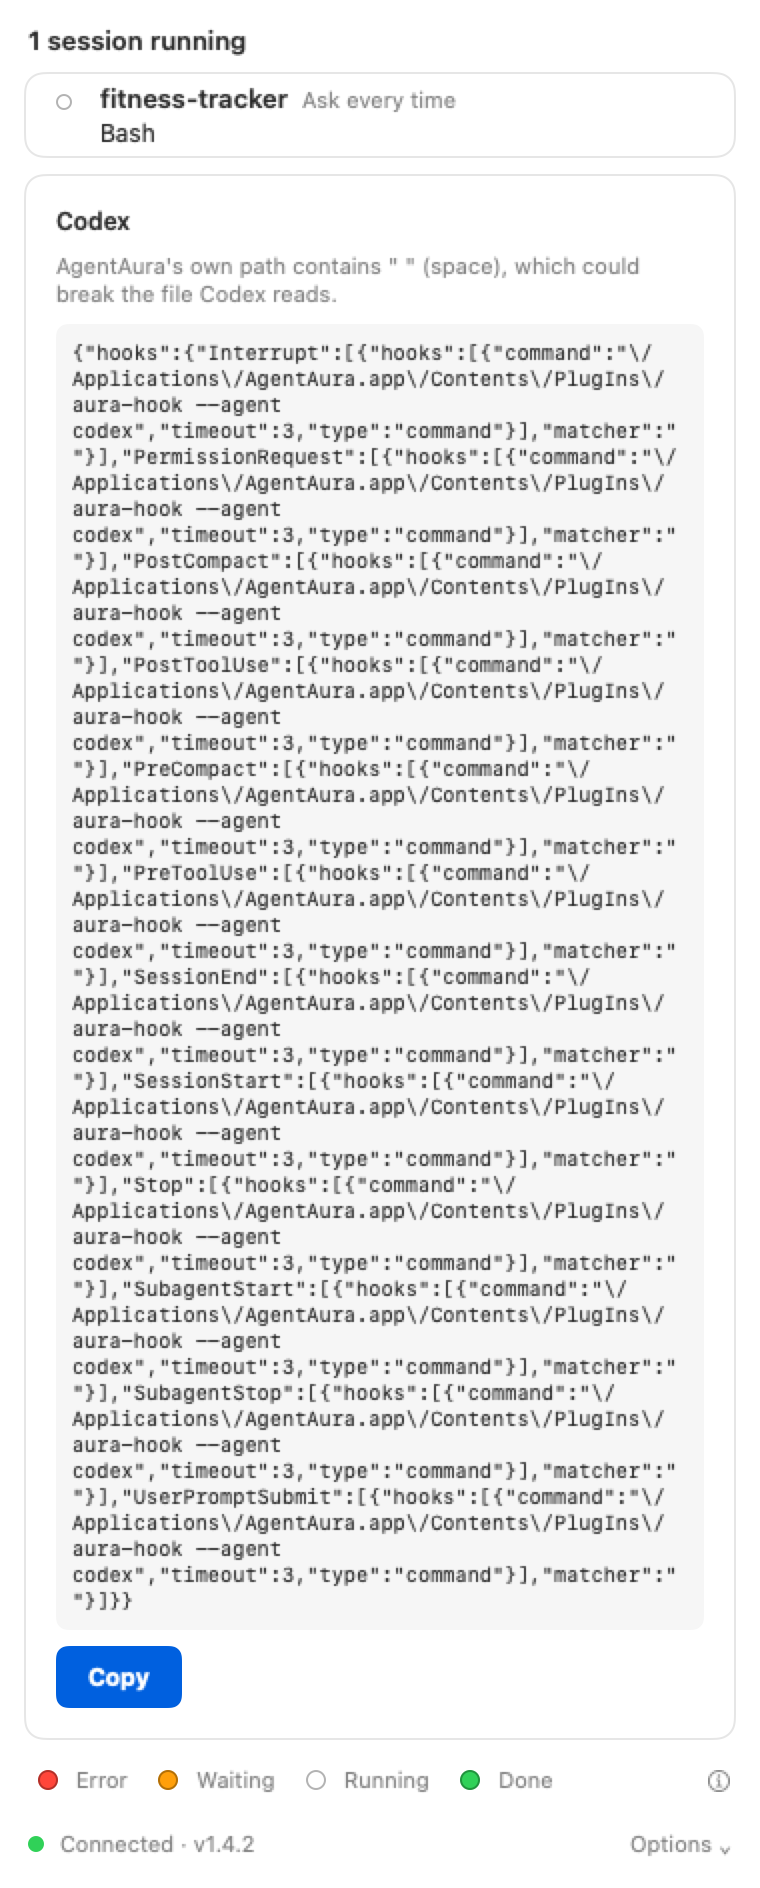
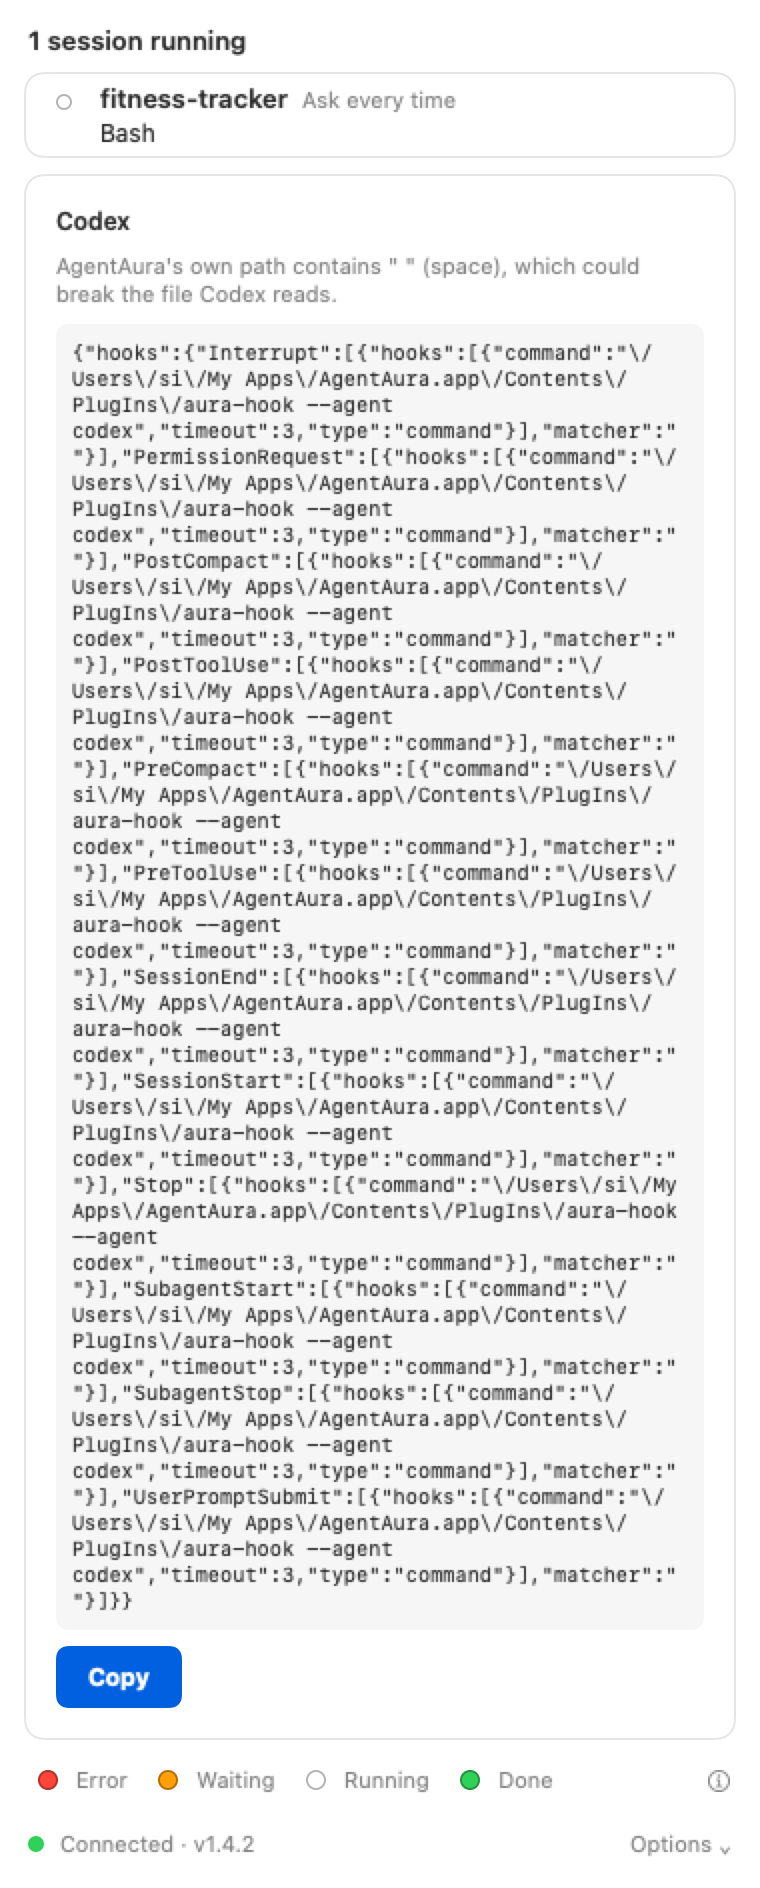
docs(codex): 證據圖補 S1-6／S1-7
S1-7（證據缺口）：新增情境 #12——install=.notConnected（Claude 未接上）＋一列
活著的 Codex session（agent==.codex，working）＋Codex 卡片 .connected。如實
呈現標題／footer chip／CTA 窄條三處目前都只讀 model.install，完全不提正在
跑的 Codex session（persona r1 指出的頭號情境證據缺口）。

S1-6（證據品質）：情境 #07（blockedByBundlePath(.unsupportedCharacter(" "))）
先前宣稱路徑含空白，卻餵不含空白的 realSnippet 當來源——改用真的含空白的
路徑（/Users/si/My Apps/AgentAura.app/...）產生 snippet，圖上看得到那條會
壞的路徑就在 snippet 裡。標注這是 r13 前的修前基準，spec r13 之後這格會
改成不給 snippet，T13 落地後要重渲。

INDEX.md 新增「persona r1 指出的視覺問題對照」段落，交叉引用 S0-1↔#03、
S1-4↔#05/#07（面板高約 944pt、複製鈕約 848pt，只標不修）、S1-6↔#07、
S1-7↔#12。

不改動任何生產碼；swift test 全量 292 個測試維持全綠。

diff --git a/Tests/AgentAuraAppTests/CodexEvidenceRenderer.swift b/Tests/AgentAuraAppTests/CodexEvidenceRenderer.swift
@@ -25,6 +25,13 @@ struct CodexEvidenceRenderer {
     /// 真的產生器輸出，不是手寫字面（同 `CodexSectionViewTests.realSnippet` 的既有理由）。
     static let realSnippet = CodexHooksJSON.snippet(hookBinaryPath: "/Applications/AgentAura.app/Contents/PlugIns/aura-hook")
 
+    /// S1-6（persona r1）：#07 宣告 `.unsupportedCharacter(" ")`，但先前餵的 `realSnippet`
+    /// 來源路徑根本不含空白——圖上的 snippet 因此看不到「那條會壞的路徑」，跟文案兜不起來。
+    /// 這裡改用真的含空白的路徑產生 snippet，讓畫面上的 snippet 內容與宣稱的 rejection 一致。
+    /// **r13 之後這個情境會改成「不給 snippet」**（spec 已改），這條常數與 #07 是 r13 前的
+    /// 修前基準，T13 落地後要重渲（見 `scenarios(now:)` #07 與 `writeIndex` 的附註）。
+    static let realSnippetWithSpace = CodexHooksJSON.snippet(hookBinaryPath: "/Users/someone/My Apps/AgentAura.app/Contents/PlugIns/aura-hook")
+
     func session(_ id: String, _ name: String, _ a: Activity, agent: Agent, updatedAt: Date) -> SessionState {
         SessionState(id: id, projectName: name, permissionMode: "default", effort: nil, model: nil, agent: agent,
                     activity: a, mainActivity: a, subActivity: nil, currentTool: "Bash", subagentTool: nil,
@@ -71,9 +78,10 @@ struct CodexEvidenceRenderer {
                                codex: codex, codexSnippet: codexSnippet, codexPathRejection: codexPathRejection, now: now)
     }
 
-    /// 11 個情境（10 個題項 + 「connectedStalePath 兩種 Rejection 都不給重新接上按鈕」拆兩張，
+    /// 12 個情境（10 個題項 + 「connectedStalePath 兩種 Rejection 都不給重新接上按鈕」拆兩張，
     /// 見 #10／#11：這兩張與 #6／#7 不是同一個 `CodexState`（#6/#7 是 `occupiedByOther`／
-    /// `blockedByBundlePath`，#10/#11 是 `connectedStalePath`），沒有重疊可併）。
+    /// `blockedByBundlePath`，#10/#11 是 `connectedStalePath`），沒有重疊可併，+ #12
+    /// S1-7 補的證據缺口——見該情境的 doc comment）。
     func scenarios(now: Date) -> [Scenario] {
         let claude = session("a", "fitness-tracker", .working, agent: .claude, updatedAt: now)
         let codexRow = session("b", "fitness-tracker", .waiting, agent: .codex, updatedAt: now.addingTimeInterval(-30))
@@ -115,10 +123,13 @@ struct CodexEvidenceRenderer {
                      codexPathRejection: .mustMoveToApplications, language: lang, now: now)
             },
             // 7. P2：blockedByBundlePath(.unsupportedCharacter(" "))——文案指名是空白字元。
+            //    S1-6（persona r1）：snippet 來源路徑真的含空白（/Users/someone/My Apps/...），
+            //    不再是不含空白的 realSnippet——r13 前的修前基準，T13 落地後（改成不給
+            //    snippet）要重渲這張，見 writeIndex 的附註。
             Scenario(name: "07-blocked-unsupported-character",
-                     desc: "P2：blockedByBundlePath(.unsupportedCharacter(\" \"))——文案指名是空白字元＋snippet（同源）＋「複製」按鈕") { lang in
+                     desc: "P2：blockedByBundlePath(.unsupportedCharacter(\" \"))——文案指名是空白字元＋snippet（同源，來源路徑真的含空白：/Users/someone/My Apps/…）＋「複製」按鈕。**r13 前的狀態**（r13 之後這格改成不給 snippet，T13 落地後要重渲）") { lang in
                 panel(sessions: [claude], install: connected,
-                     codex: .blockedByBundlePath(.unsupportedCharacter(" ")), codexSnippet: Self.realSnippet,
+                     codex: .blockedByBundlePath(.unsupportedCharacter(" ")), codexSnippet: Self.realSnippetWithSpace,
                      codexPathRejection: .unsupportedCharacter(" "), language: lang, now: now)
             },
             // 8. 斷開成功 banner（codexDisconnected）＋斷開後卡片回到 notConnected 的提示。
@@ -145,10 +156,22 @@ struct CodexEvidenceRenderer {
                 panel(sessions: [claude], install: connected, codex: .connectedStalePath,
                      codexPathRejection: .unsupportedCharacter(" "), language: lang, now: now)
             },
+            // 12. S1-7（persona r1 指出的證據缺口）：本 change 的頭號情境——Claude 側
+            //     `.notConnected`，同時有一列活著的 Codex session（agent==.codex，working
+            //     態）。標題（`PanelModel.title`）、footer chip（`PanelFooterView`）、CTA
+            //     窄條（`ConnectCTABannerView`）三處都只讀 `model.install`（`healthLabel`／
+            //     `connectCTAText`），完全不看 `model.codex`——這張圖如實呈現「三處都只反映
+            //     Claude」這個現況，不是修過的版本（這裡不改生產碼）。
+            Scenario(name: "12-notConnected-claude-with-live-codex-session",
+                     desc: "S1-7：install=.notConnected（Claude 未接上）＋一列活著的 Codex session（working）＋Codex 卡片 .connected——看標題／footer chip／CTA 窄條三處在這個組合下寫什麼字（persona r1：三處都只反映 Claude，完全沒提到正在跑的 Codex session）") { lang in
+                let liveCodexSession = session("c", "fitness-tracker", .working, agent: .codex, updatedAt: now)
+                return panel(sessions: [liveCodexSession], install: .notConnected, codex: .connected,
+                            language: lang, now: now)
+            },
         ]
     }
 
-    @Test("產出 11 組 Codex 面板情境 × 兩語言（.aqua）＋ INDEX.md")
+    @Test("產出 12 組 Codex 面板情境 × 兩語言（.aqua）＋ INDEX.md")
     func renderCodexEvidence() throws {
         let dir = try Self.outputDirectory()
         try FileManager.default.createDirectory(at: dir, withIntermediateDirectories: true)
@@ -187,6 +210,21 @@ struct CodexEvidenceRenderer {
 
             **只有 `.aqua`（淺色）**：深淺色對比不是這批圖要驗的維度，版面與文案在深淺模式下走同一份 SwiftUI\
             語意色（`.primary`／`.secondary`），需要深色對照時另外要求即可。
+
+            ## persona r1 指出的視覺問題對照（只標，不修）
+
+            - **S0-1** ↔ `03-connected-banner-*`：接上成功 banner 的兩句話要看得到，這張圖的 `sessions` 刻意留空\
+            （`.connected` kind banner 在有活著的 session 時會自動退場，見 #03 的情境註解）——不是遺漏 session，\
+            是唯一能讓兩句話同時留在畫面上的組合。
+            - **S1-4** ↔ `05-occupied-with-snippet-*` ／ `07-blocked-unsupported-character-*`：面板高度約 944pt，\
+            「複製」按鈕落在約 848pt 處（皆為 pt，非這批圖的 px——見上方尺寸單位附註）——snippet 區塊把卡片撐得\
+            很高，複製鈕在很下面才看得到。這裡先標記現況，不在這輪修版面。
+            - **S1-6** ↔ `07-blocked-unsupported-character-*`：已修——snippet 現在由真的含空白的路徑\
+            （`/Users/someone/My Apps/AgentAura.app/Contents/PlugIns/aura-hook`）產生，圖上看得到那條會壞的路徑就在\
+            snippet 裡。**r13 前的修前基準**：spec r13 之後這個情境會改成「不給 snippet」，T13 落地後要重渲這張。
+            - **S1-7** ↔ `12-notConnected-claude-with-live-codex-session-*`：新增。本 change 的頭號情境\
+            （Claude 未接上 ＋ 一列活著的 Codex session）先前完全沒有證據圖——這張如實呈現標題／footer chip／CTA\
+            窄條三處目前都只讀 `model.install`（不看 `model.codex`），完全沒提到正在跑的 Codex session。
 
             | 檔名 | 情境（給 persona 看什麼） |
             |---|---|

diff --git a/docs/evidence/codex/INDEX.md b/docs/evidence/codex/INDEX.md
@@ -8,6 +8,13 @@
 
 **只有 `.aqua`（淺色）**：深淺色對比不是這批圖要驗的維度，版面與文案在深淺模式下走同一份 SwiftUI語意色（`.primary`／`.secondary`），需要深色對照時另外要求即可。
 
+## persona r1 指出的視覺問題對照（只標，不修）
+
+- **S0-1** ↔ `03-connected-banner-*`：接上成功 banner 的兩句話要看得到，這張圖的 `sessions` 刻意留空（`.connected` kind banner 在有活著的 session 時會自動退場，見 #03 的情境註解）——不是遺漏 session，是唯一能讓兩句話同時留在畫面上的組合。
+- **S1-4** ↔ `05-occupied-with-snippet-*` ／ `07-blocked-unsupported-character-*`：面板高度約 944pt，「複製」按鈕落在約 848pt 處（皆為 pt，非這批圖的 px——見上方尺寸單位附註）——snippet 區塊把卡片撐得很高，複製鈕在很下面才看得到。這裡先標記現況，不在這輪修版面。
+- **S1-6** ↔ `07-blocked-unsupported-character-*`：已修——snippet 現在由真的含空白的路徑（`/Users/someone/My Apps/AgentAura.app/Contents/PlugIns/aura-hook`）產生，圖上看得到那條會壞的路徑就在snippet 裡。**r13 前的修前基準**：spec r13 之後這個情境會改成「不給 snippet」，T13 落地後要重渲這張。
+- **S1-7** ↔ `12-notConnected-claude-with-live-codex-session-*`：新增。本 change 的頭號情境（Claude 未接上 ＋ 一列活著的 Codex session）先前完全沒有證據圖——這張如實呈現標題／footer chip／CTA窄條三處目前都只讀 `model.install`（不看 `model.codex`），完全沒提到正在跑的 Codex session。
+
 | 檔名 | 情境（給 persona 看什麼） |
 |---|---|
 | `01-unavailable-en.png` | P1／D-j：~/.codex 不存在——完整面板（含活著的 Claude session）完全看不到任何 Codex 字樣 |
@@ -22,8 +29,8 @@
 | `05-occupied-with-snippet-zh.png` | P2：occupiedByOther，codexSnippet!=nil——說明＋可複製 snippet（與 CodexHooksJSON.snippet 同源）＋「複製」按鈕 |
 | `06-occupied-must-move-no-snippet-en.png` | P2／R-10：occupiedByOther，pathRejection==.mustMoveToApplications——不給 snippet／複製鈕，改說先把 App 移到「應用程式」 |
 | `06-occupied-must-move-no-snippet-zh.png` | P2／R-10：occupiedByOther，pathRejection==.mustMoveToApplications——不給 snippet／複製鈕，改說先把 App 移到「應用程式」 |
-| `07-blocked-unsupported-character-en.png` | P2：blockedByBundlePath(.unsupportedCharacter(" "))——文案指名是空白字元＋snippet（同源）＋「複製」按鈕 |
-| `07-blocked-unsupported-character-zh.png` | P2：blockedByBundlePath(.unsupportedCharacter(" "))——文案指名是空白字元＋snippet（同源）＋「複製」按鈕 |
+| `07-blocked-unsupported-character-en.png` | P2：blockedByBundlePath(.unsupportedCharacter(" "))——文案指名是空白字元＋snippet（同源，來源路徑真的含空白：/Users/someone/My Apps/…）＋「複製」按鈕。**r13 前的狀態**（r13 之後這格改成不給 snippet，T13 落地後要重渲） |
+| `07-blocked-unsupported-character-zh.png` | P2：blockedByBundlePath(.unsupportedCharacter(" "))——文案指名是空白字元＋snippet（同源，來源路徑真的含空白：/Users/someone/My Apps/…）＋「複製」按鈕。**r13 前的狀態**（r13 之後這格改成不給 snippet，T13 落地後要重渲） |
 | `08-disconnected-banner-en.png` | 斷開成功 banner（codexDisconnected，kind=.disconnected，不會像 #3 那樣因為有 session 而自動退場）＋斷開後 Codex 卡片回到 notConnected 的「接上 Codex」提示 |
 | `08-disconnected-banner-zh.png` | 斷開成功 banner（codexDisconnected，kind=.disconnected，不會像 #3 那樣因為有 session 而自動退場）＋斷開後 Codex 卡片回到 notConnected 的「接上 Codex」提示 |
 | `09-mixed-claude-codex-rows-en.png` | P4：同一份 sessions 列表裡 Claude 列與帶「Codex」標籤的列並存，分得出來、列高不變（見 CodexRowLabelRenderTests 的既有像素／高度守衛） |
@@ -32,3 +39,5 @@
 | `10-stale-rejection-must-move-withholds-reconnect-zh.png` | R-9：connectedStalePath，pathRejection==.mustMoveToApplications——不畫「重新接上」按鈕，換句解釋（與 #6 不同 state：這張是 connectedStalePath，#6 是 occupiedByOther） |
 | `11-stale-rejection-unsupported-character-withholds-reconnect-en.png` | R-9：connectedStalePath，pathRejection==.unsupportedCharacter(" ")——同樣不畫「重新接上」按鈕，與 #10 同一句解釋（文案不預設成因）；與 #7 不同 state：這張是 connectedStalePath，#7 是 blockedByBundlePath |
 | `11-stale-rejection-unsupported-character-withholds-reconnect-zh.png` | R-9：connectedStalePath，pathRejection==.unsupportedCharacter(" ")——同樣不畫「重新接上」按鈕，與 #10 同一句解釋（文案不預設成因）；與 #7 不同 state：這張是 connectedStalePath，#7 是 blockedByBundlePath |
+| `12-notConnected-claude-with-live-codex-session-en.png` | S1-7：install=.notConnected（Claude 未接上）＋一列活著的 Codex session（working）＋Codex 卡片 .connected——看標題／footer chip／CTA 窄條三處在這個組合下寫什麼字（persona r1：三處都只反映 Claude，完全沒提到正在跑的 Codex session） |
+| `12-notConnected-claude-with-live-codex-session-zh.png` | S1-7：install=.notConnected（Claude 未接上）＋一列活著的 Codex session（working）＋Codex 卡片 .connected——看標題／footer chip／CTA 窄條三處在這個組合下寫什麼字（persona r1：三處都只反映 Claude，完全沒提到正在跑的 Codex session） |
